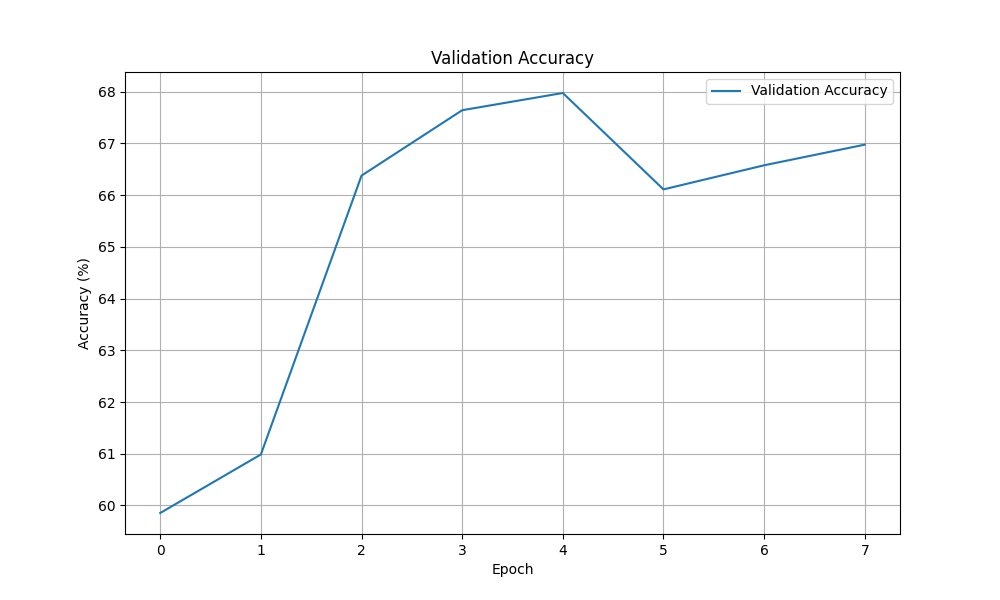
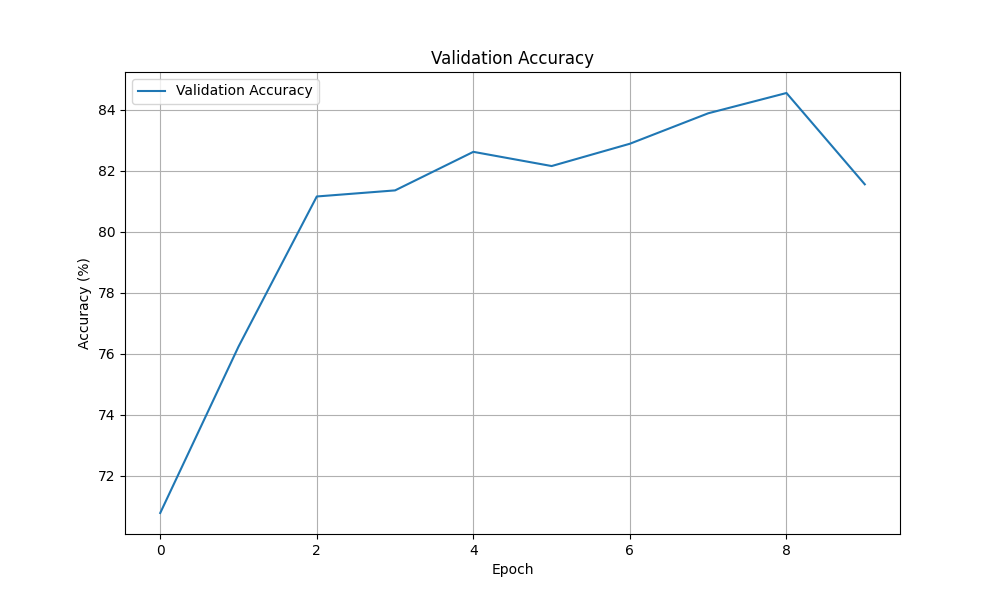
Re-enabled full-network fine tuning for improved performance

diff --git a/src/train.py b/src/train.py
@@ -74,8 +74,8 @@ print("\nModel loaded successfully!")
 # FREEZE FEATURE EXTRACTOR
 # ====================================
 
-for param in model.parameters():
-    param.requires_grad = False
+# for param in model.parameters():
+#     param.requires_grad = False
 
 # ====================================
 # MODIFY FINAL LAYER
@@ -89,8 +89,8 @@ model.fc = nn.Linear(
 )
 
 # Train only classifier layer
-for param in model.fc.parameters():
-    param.requires_grad = True
+# for param in model.fc.parameters():
+#     param.requires_grad = True
 
 print("\nFinal layer:")
 print(model.fc)
@@ -146,8 +146,8 @@ print("\nLoss function created!")
 # ====================================
 
 optimizer = optim.Adam(
-    model.fc.parameters(),
-    lr=0.0003
+    model.parameters(),
+    lr=0.0001
 )
 
 print("\nOptimizer initialized!")